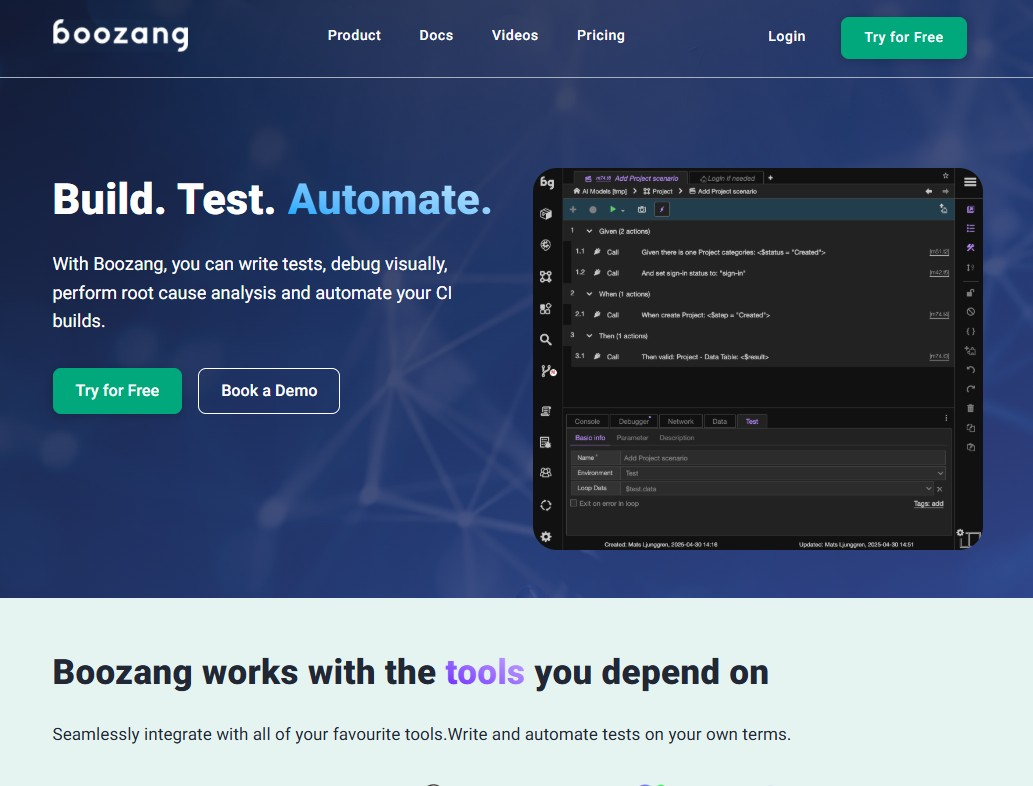
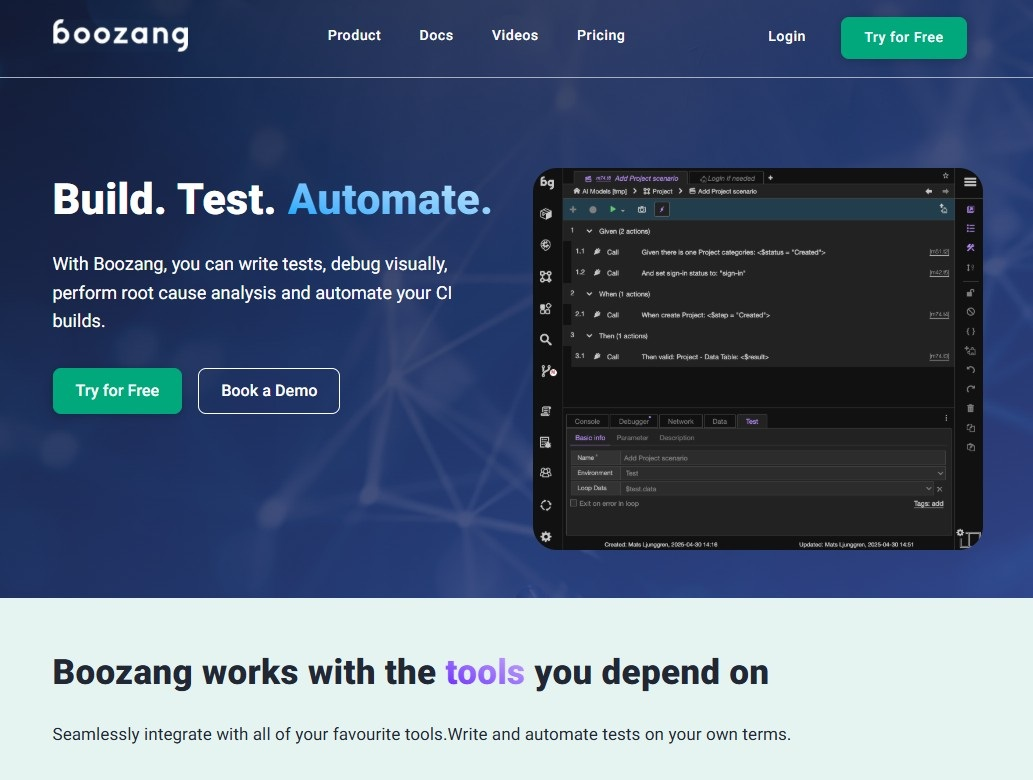
header bg

diff --git a/assets/css/custom.scss b/assets/css/custom.scss
@@ -983,7 +983,7 @@ main nav - default colors for white & lightgrey bg
    header*
 *************************/
 .header_main {
-  background: $lightgrey; //default bg
+  background: #fff; //default bg
   min-height: 350px;
   &.single_post {
     min-height: 0;

diff --git a/assets/css/_variables.scss b/assets/css/_variables.scss
@@ -58,6 +58,9 @@ $blueDarkOverlayColor: linear-gradient(
   #384a94
 );
 
+$blueAltOverlayColor: linear-gradient(150deg, #0056ac 15%, #191970 70%, #001c3a 94%);
+
+
 $blueOverlayColor: linear-gradient(
   to right bottom,
   #0f55bd,

diff --git a/assets/css/custom.css b/assets/css/custom.css
@@ -1214,7 +1214,7 @@ main nav - default colors for white & lightgrey bg
    header*
 *************************/
 .header_main {
-  background: #f9f9f9;
+  background: #fff;
   min-height: 350px;
 }
 .header_main.single_post {
